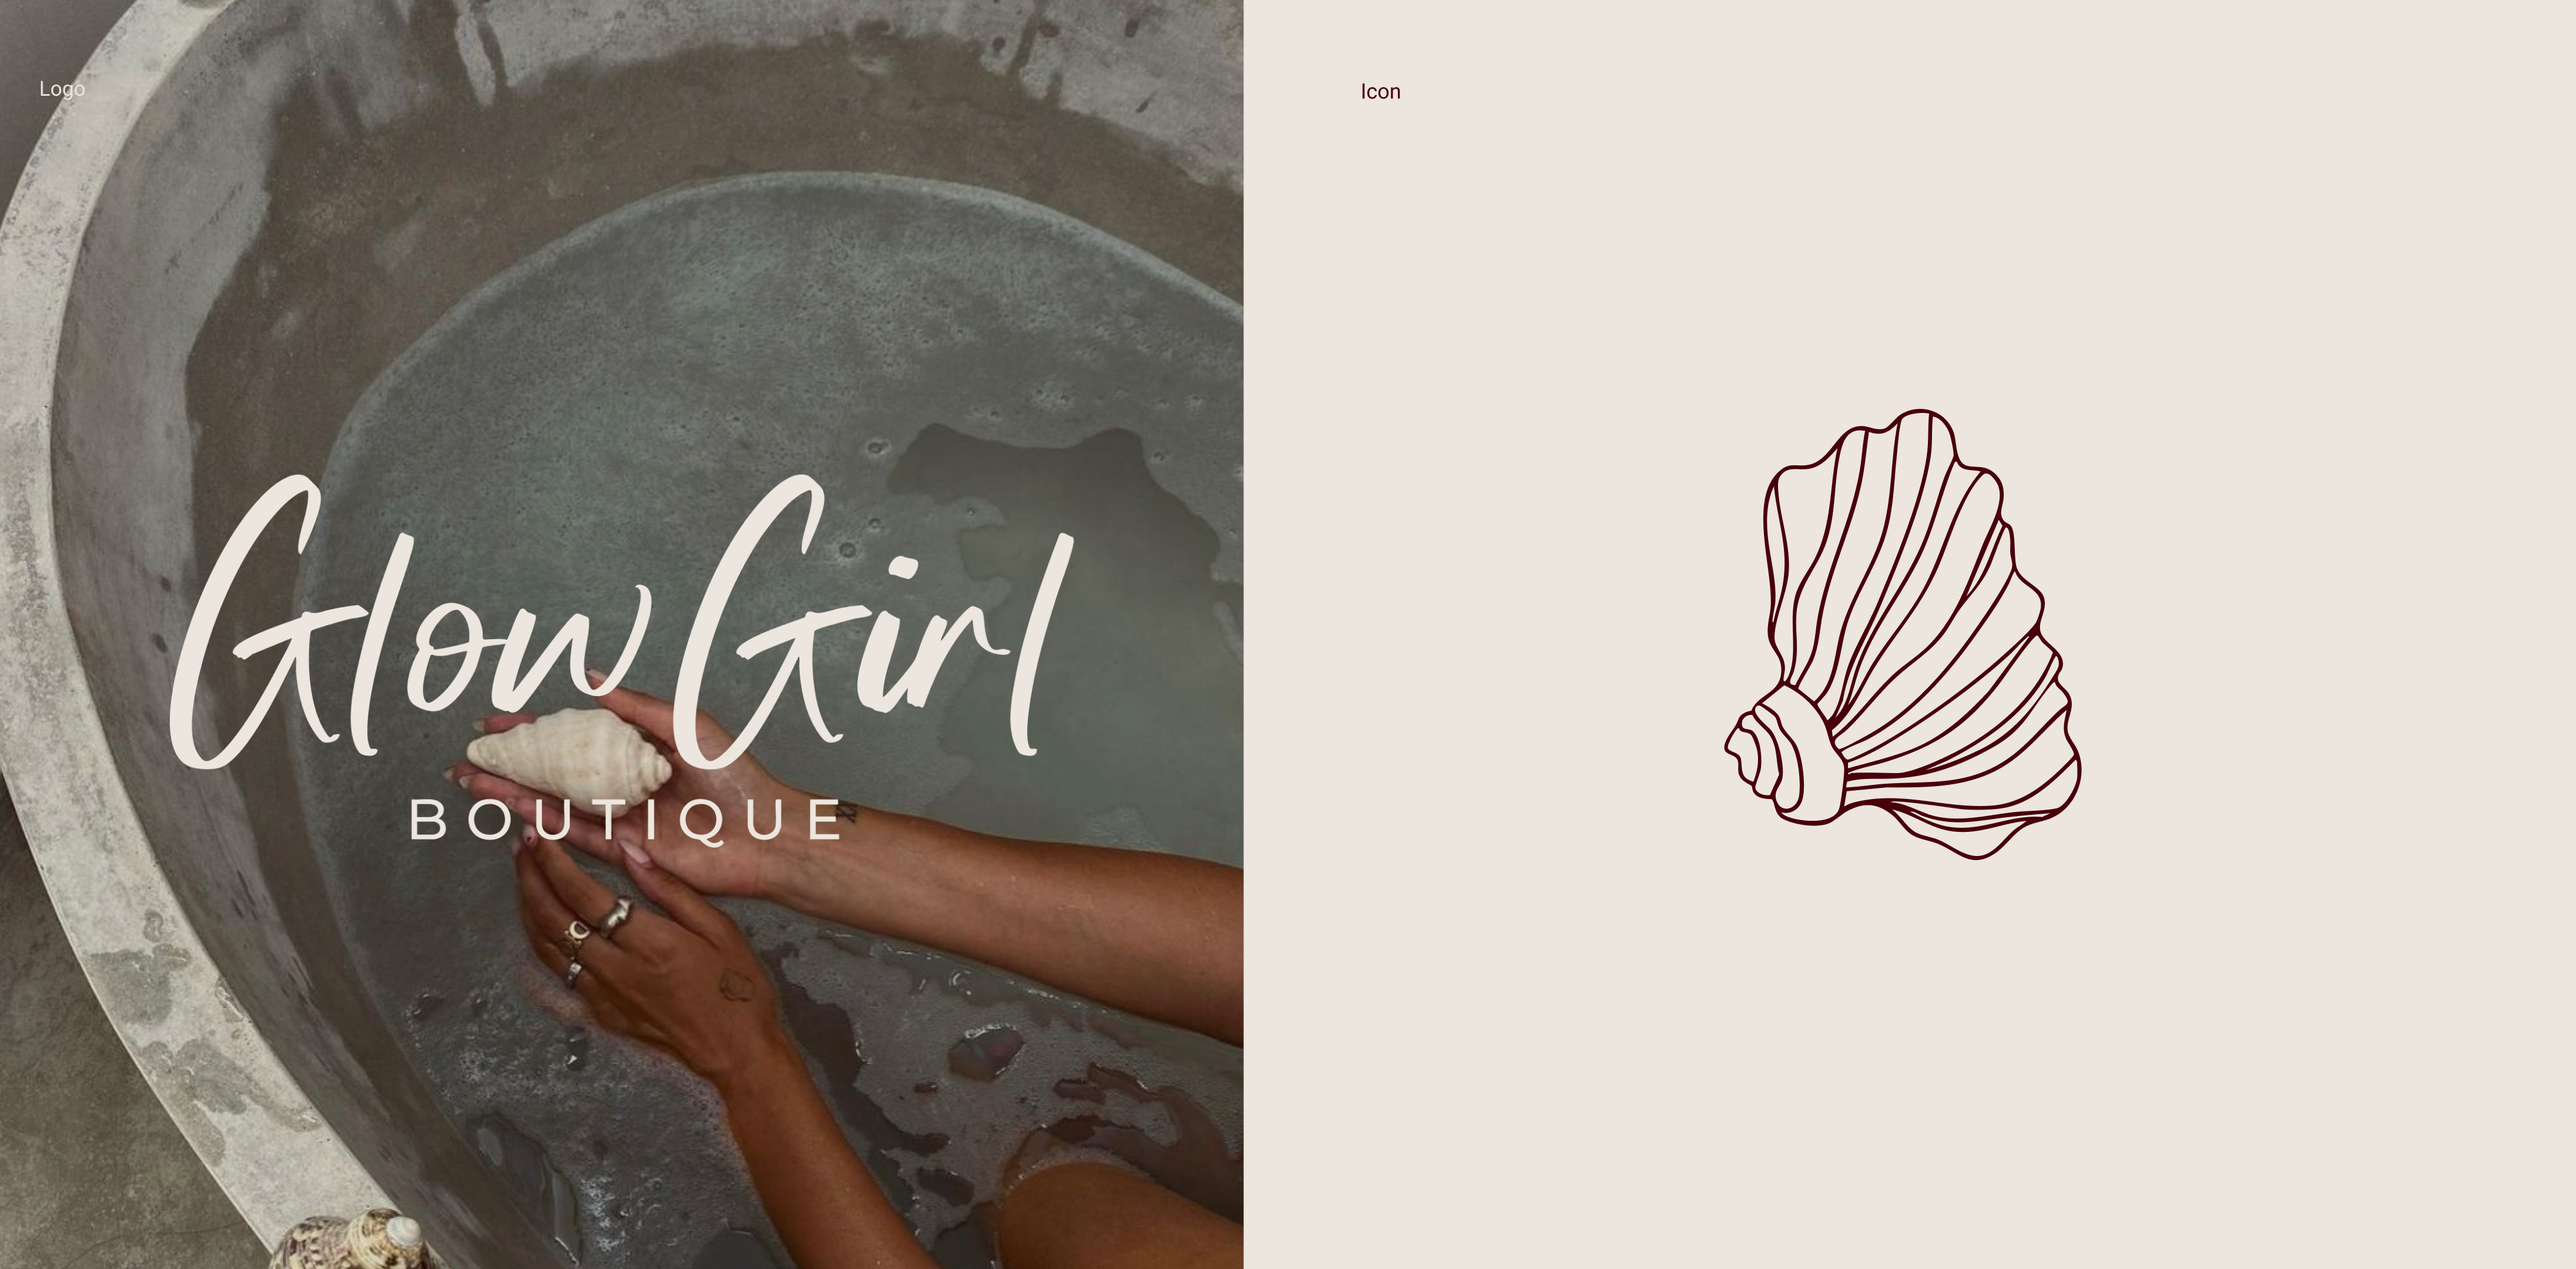
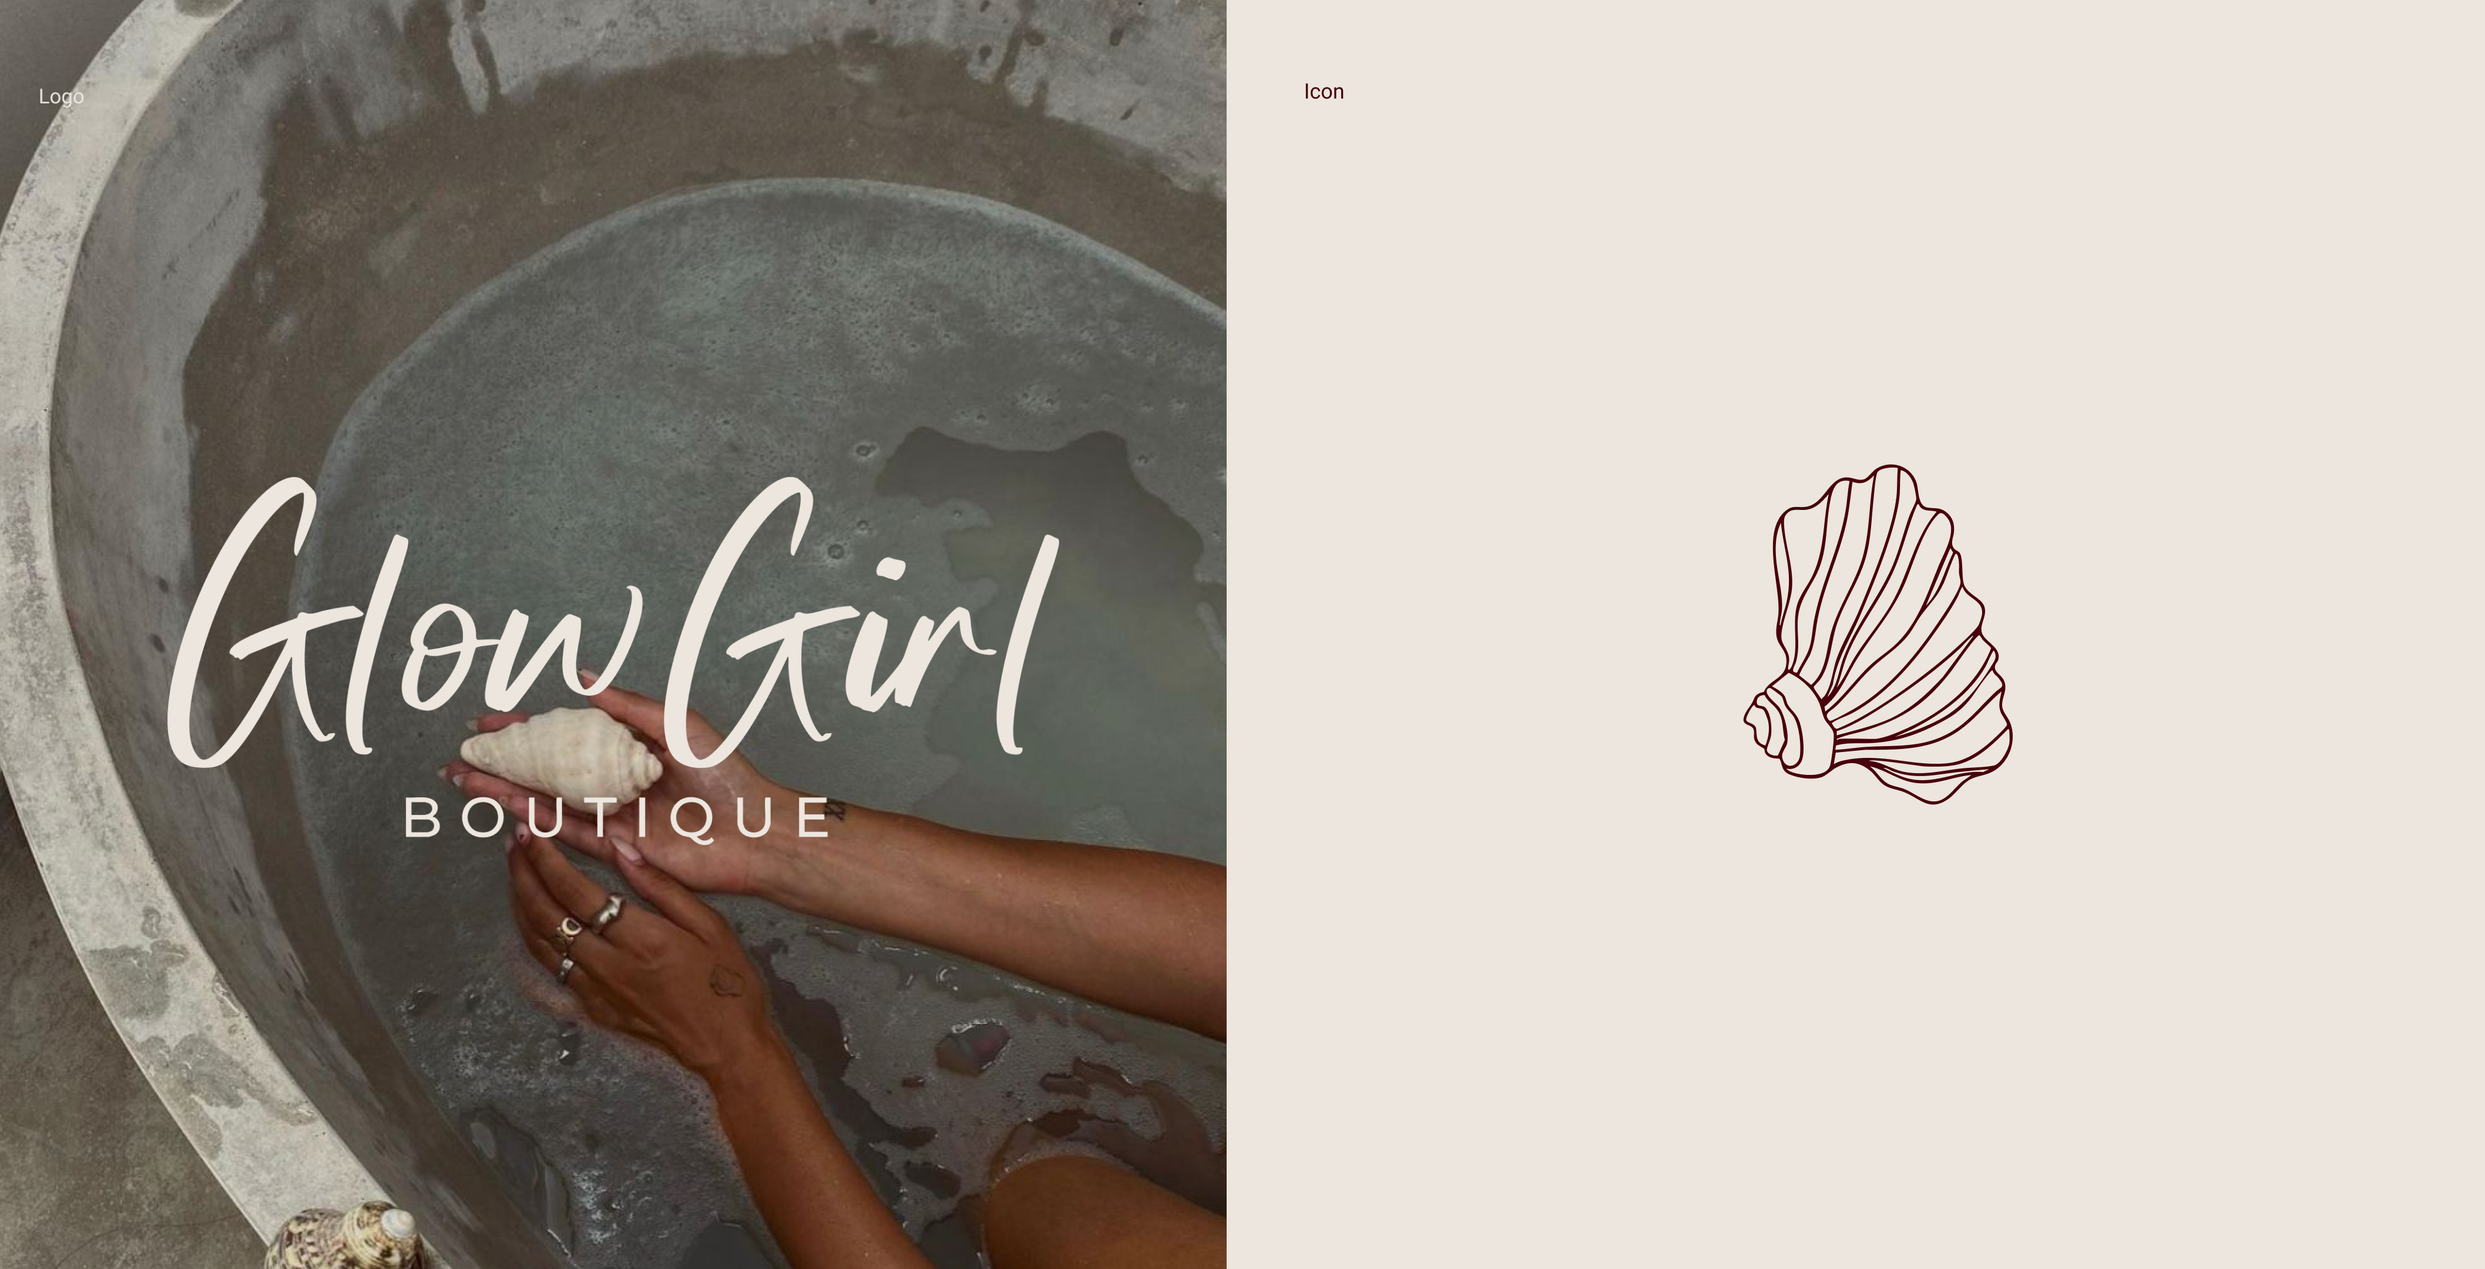
image changes

diff --git a/three/style.css b/three/style.css
@@ -212,7 +212,7 @@ h1 a:hover {
 }
 
 #four {
-    background-image: url(images/44.png);
+    background-image: url(images/47.png);
     background-size: cover;
     width: 100vw;
 }
